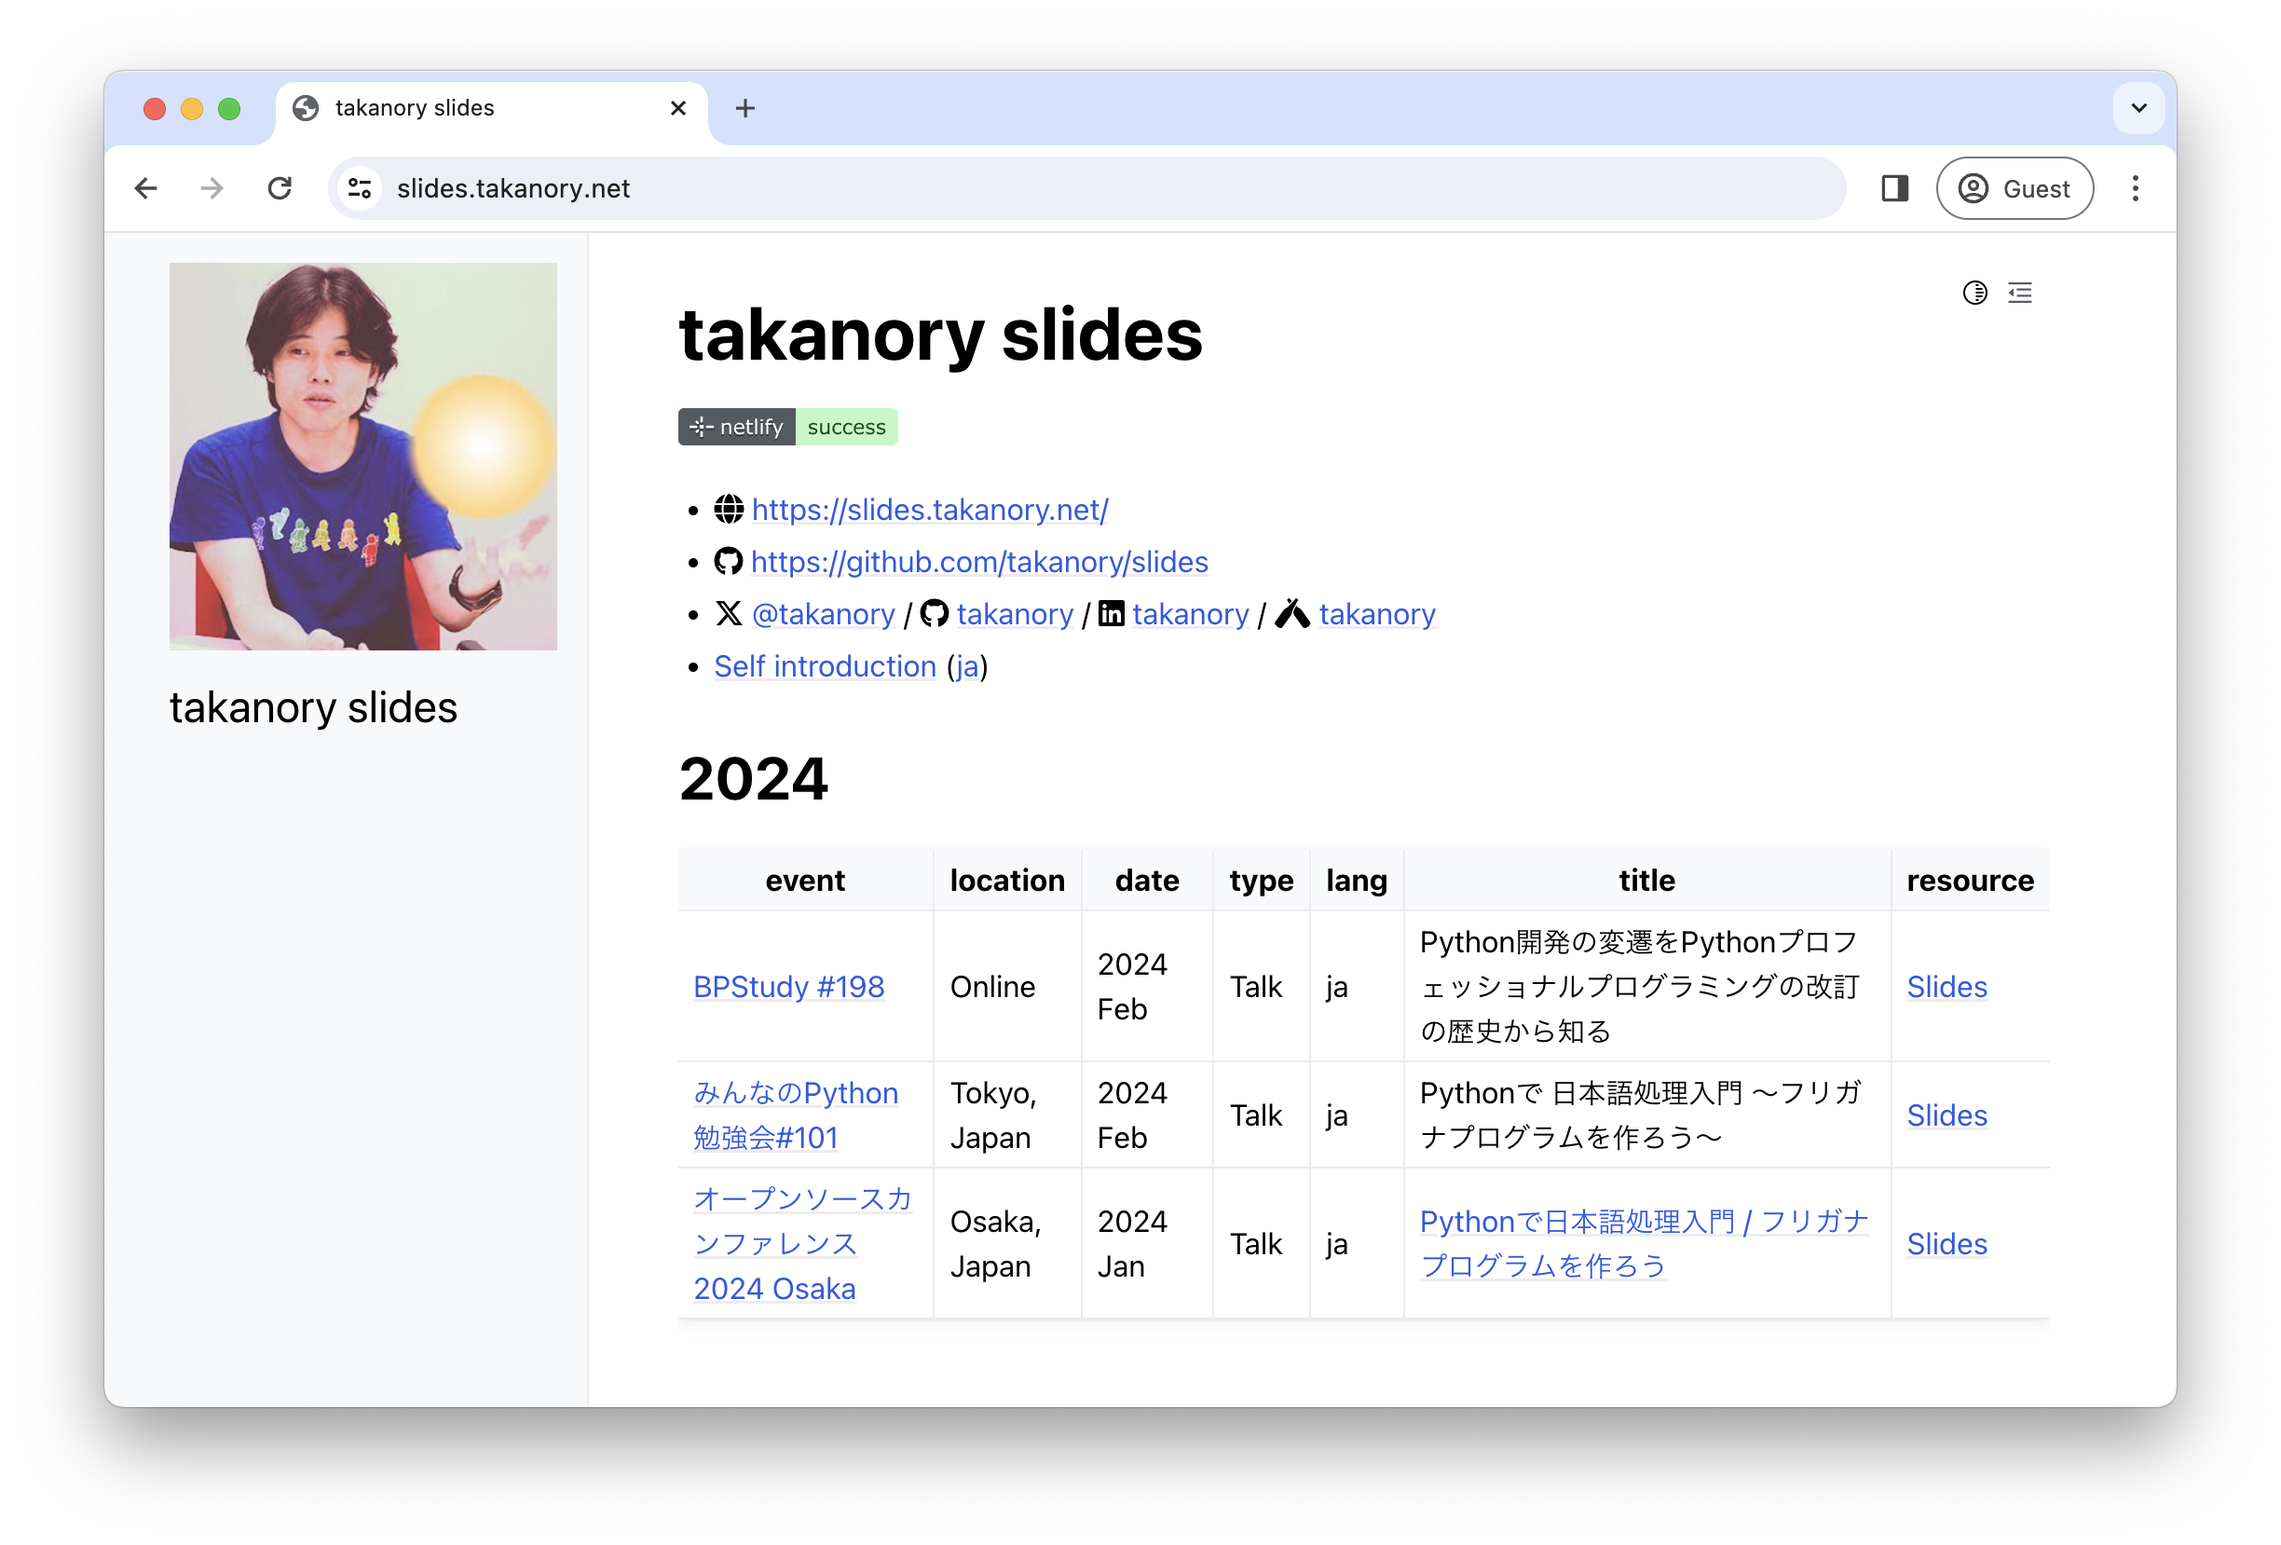
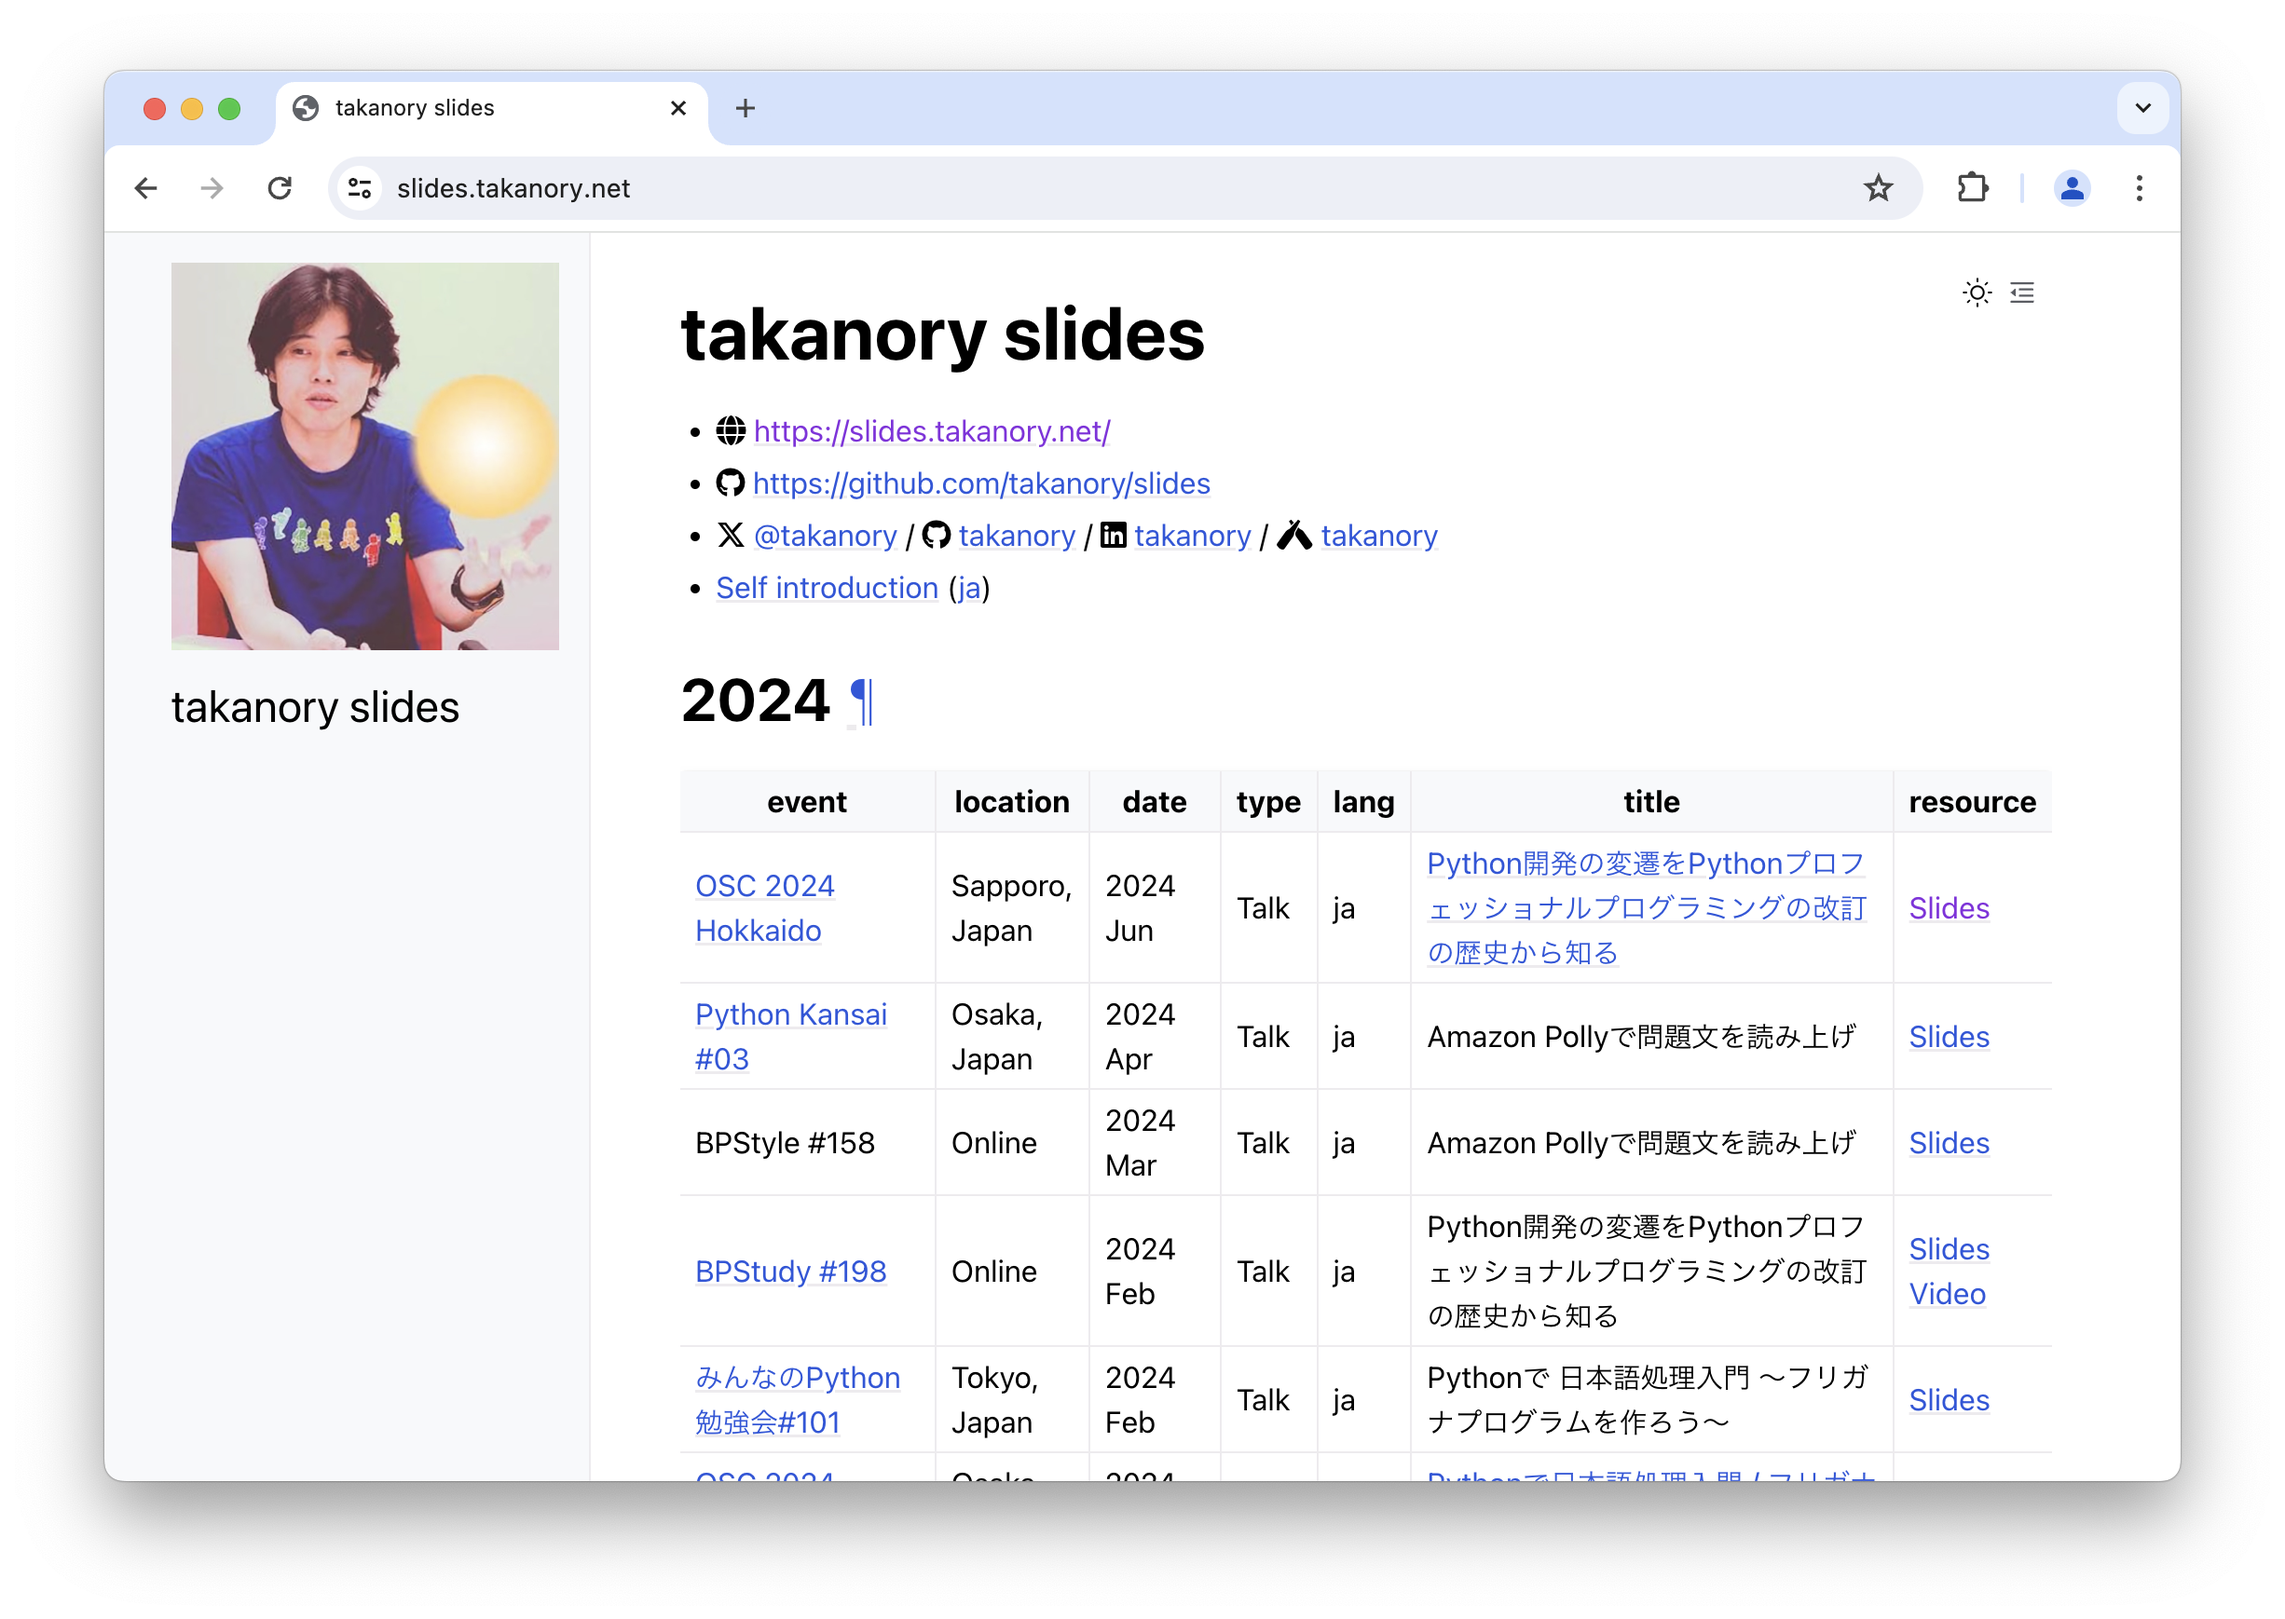
update README and slides.takanory.net image

diff --git a/README.rst b/README.rst
@@ -36,7 +36,7 @@
      * Talk
      * ja
      * `Python開発の変遷をPythonプロフェッショナルプログラミングの改訂の歴史から知る <https://event.ospn.jp/osc2024-do/session/1461708>`__
-     * `Slides <https://slides.takanory.net/slides/20240629osc20do>`__
+     * `Slides <https://slides.takanory.net/slides/20240629osc24do>`__
    - * `Python Kansai #03 <https://kansai-python.connpass.com/event/313464/>`_
      * Osaka, Japan
      * 2024 Apr
